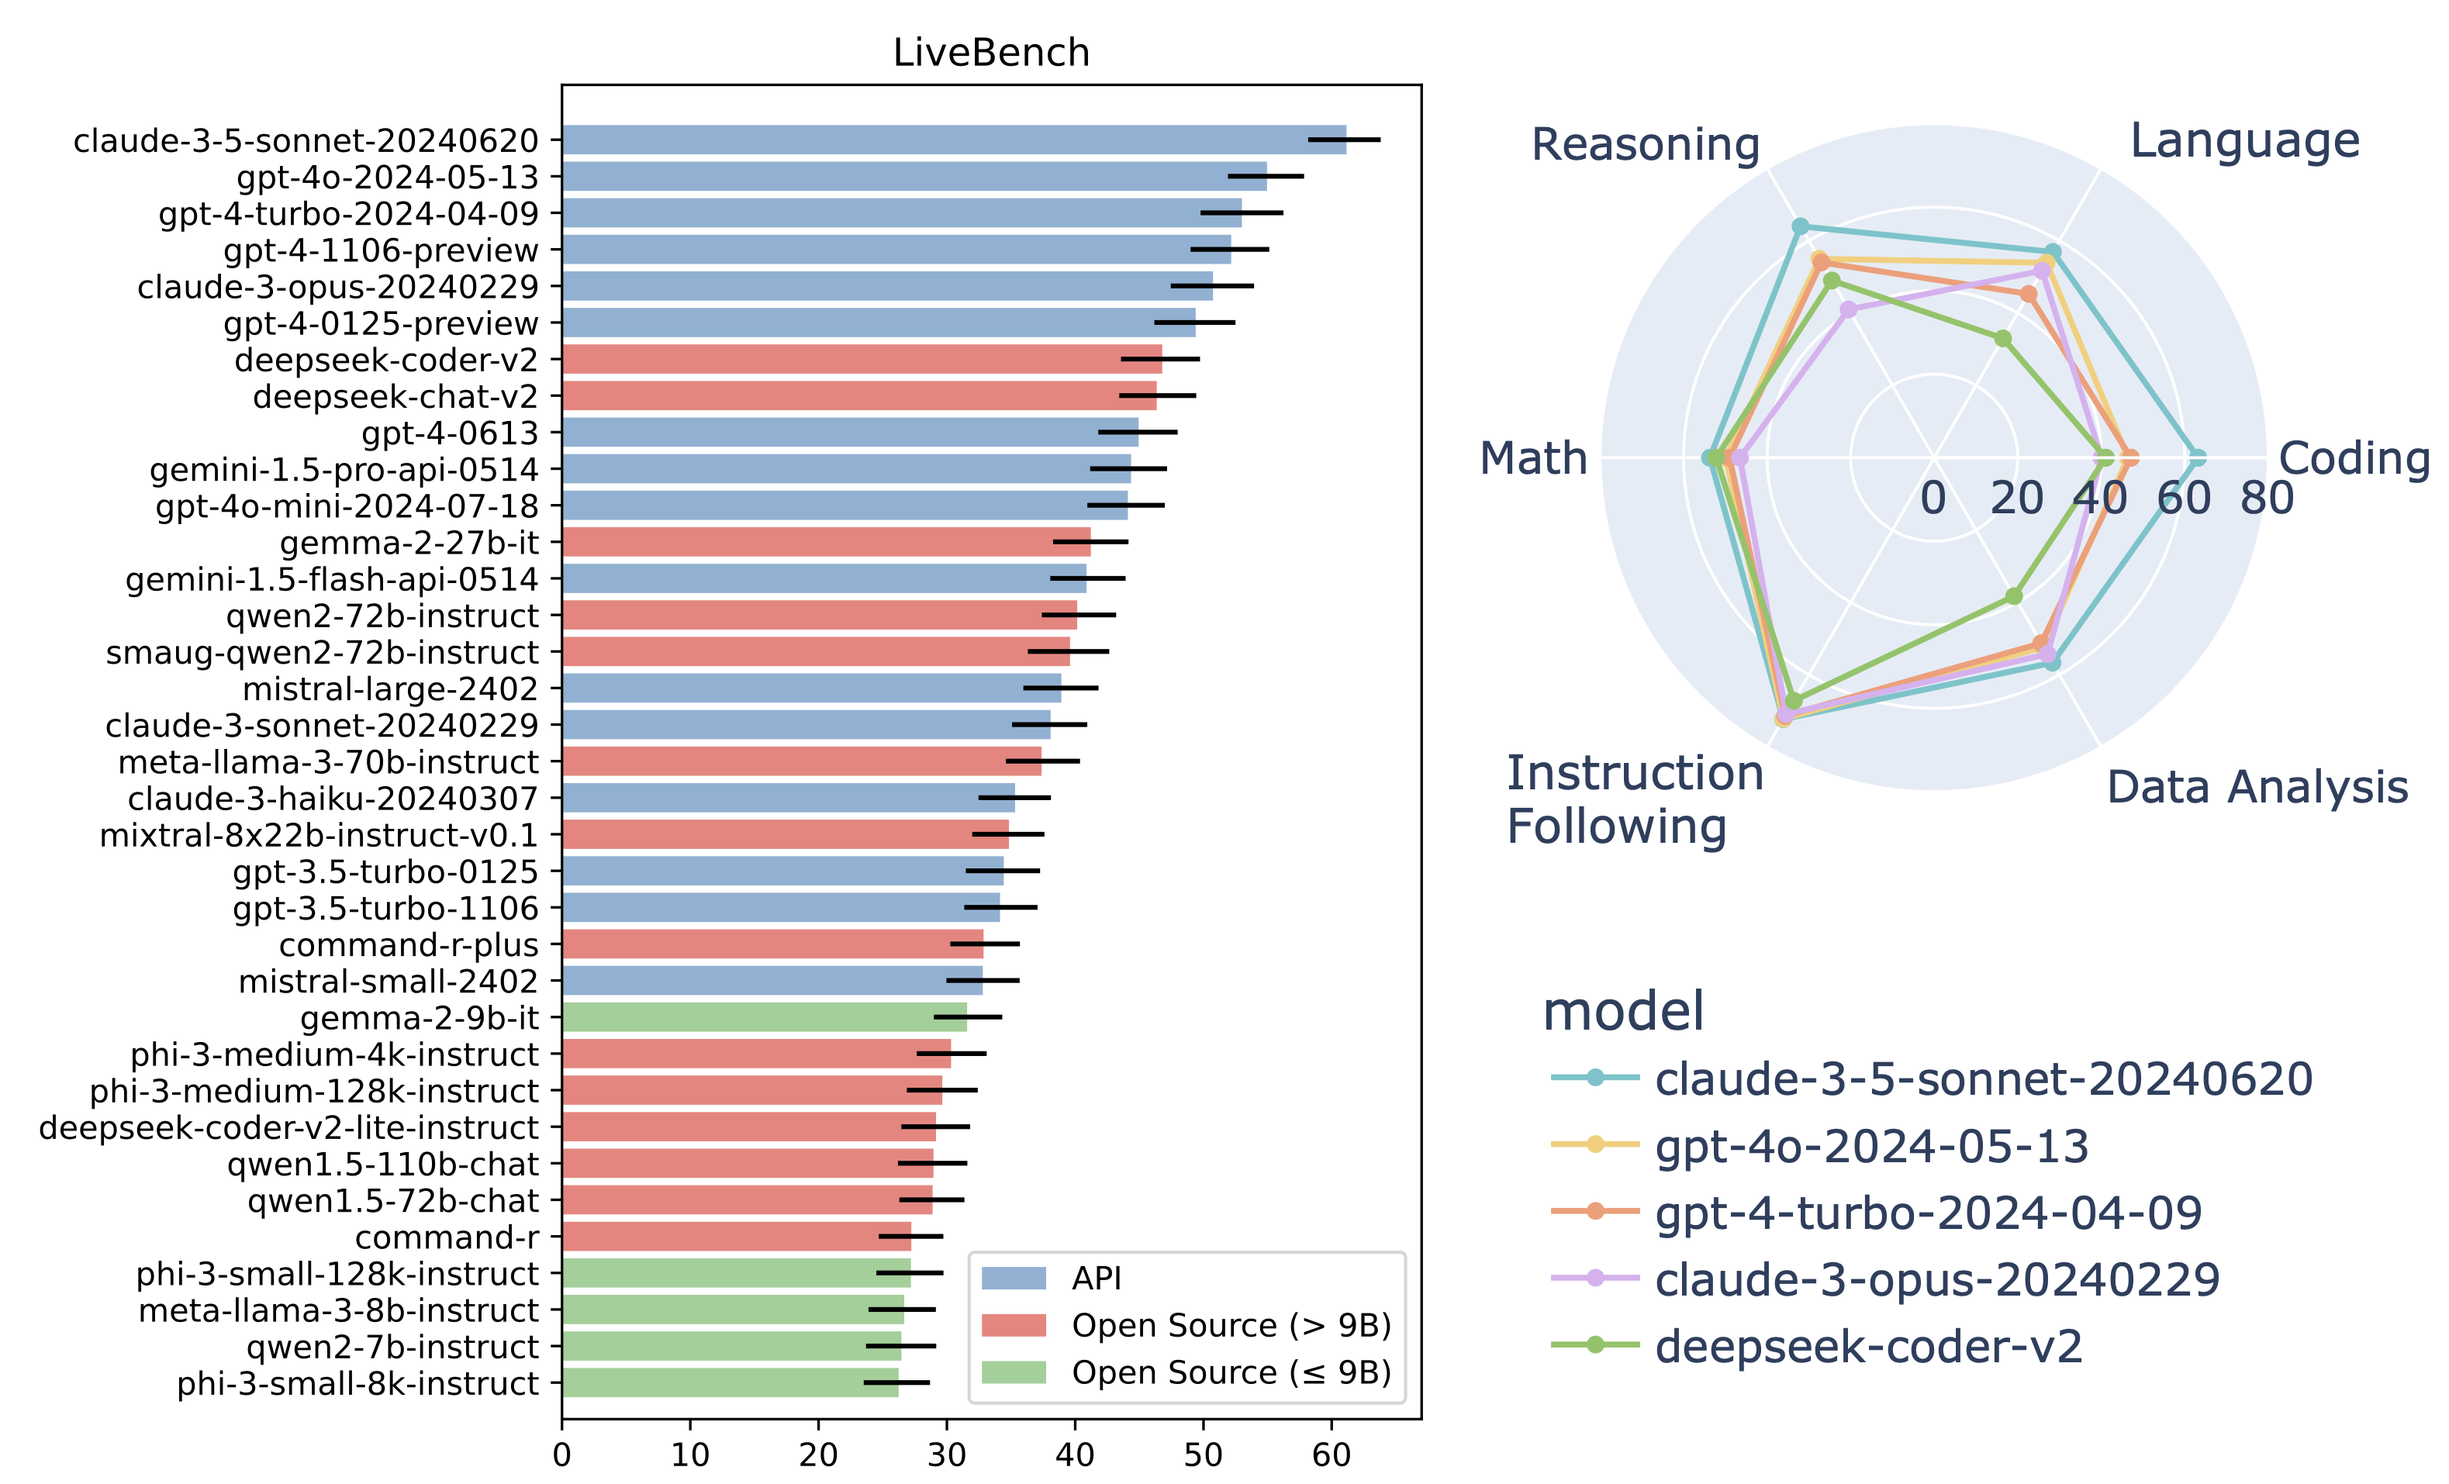
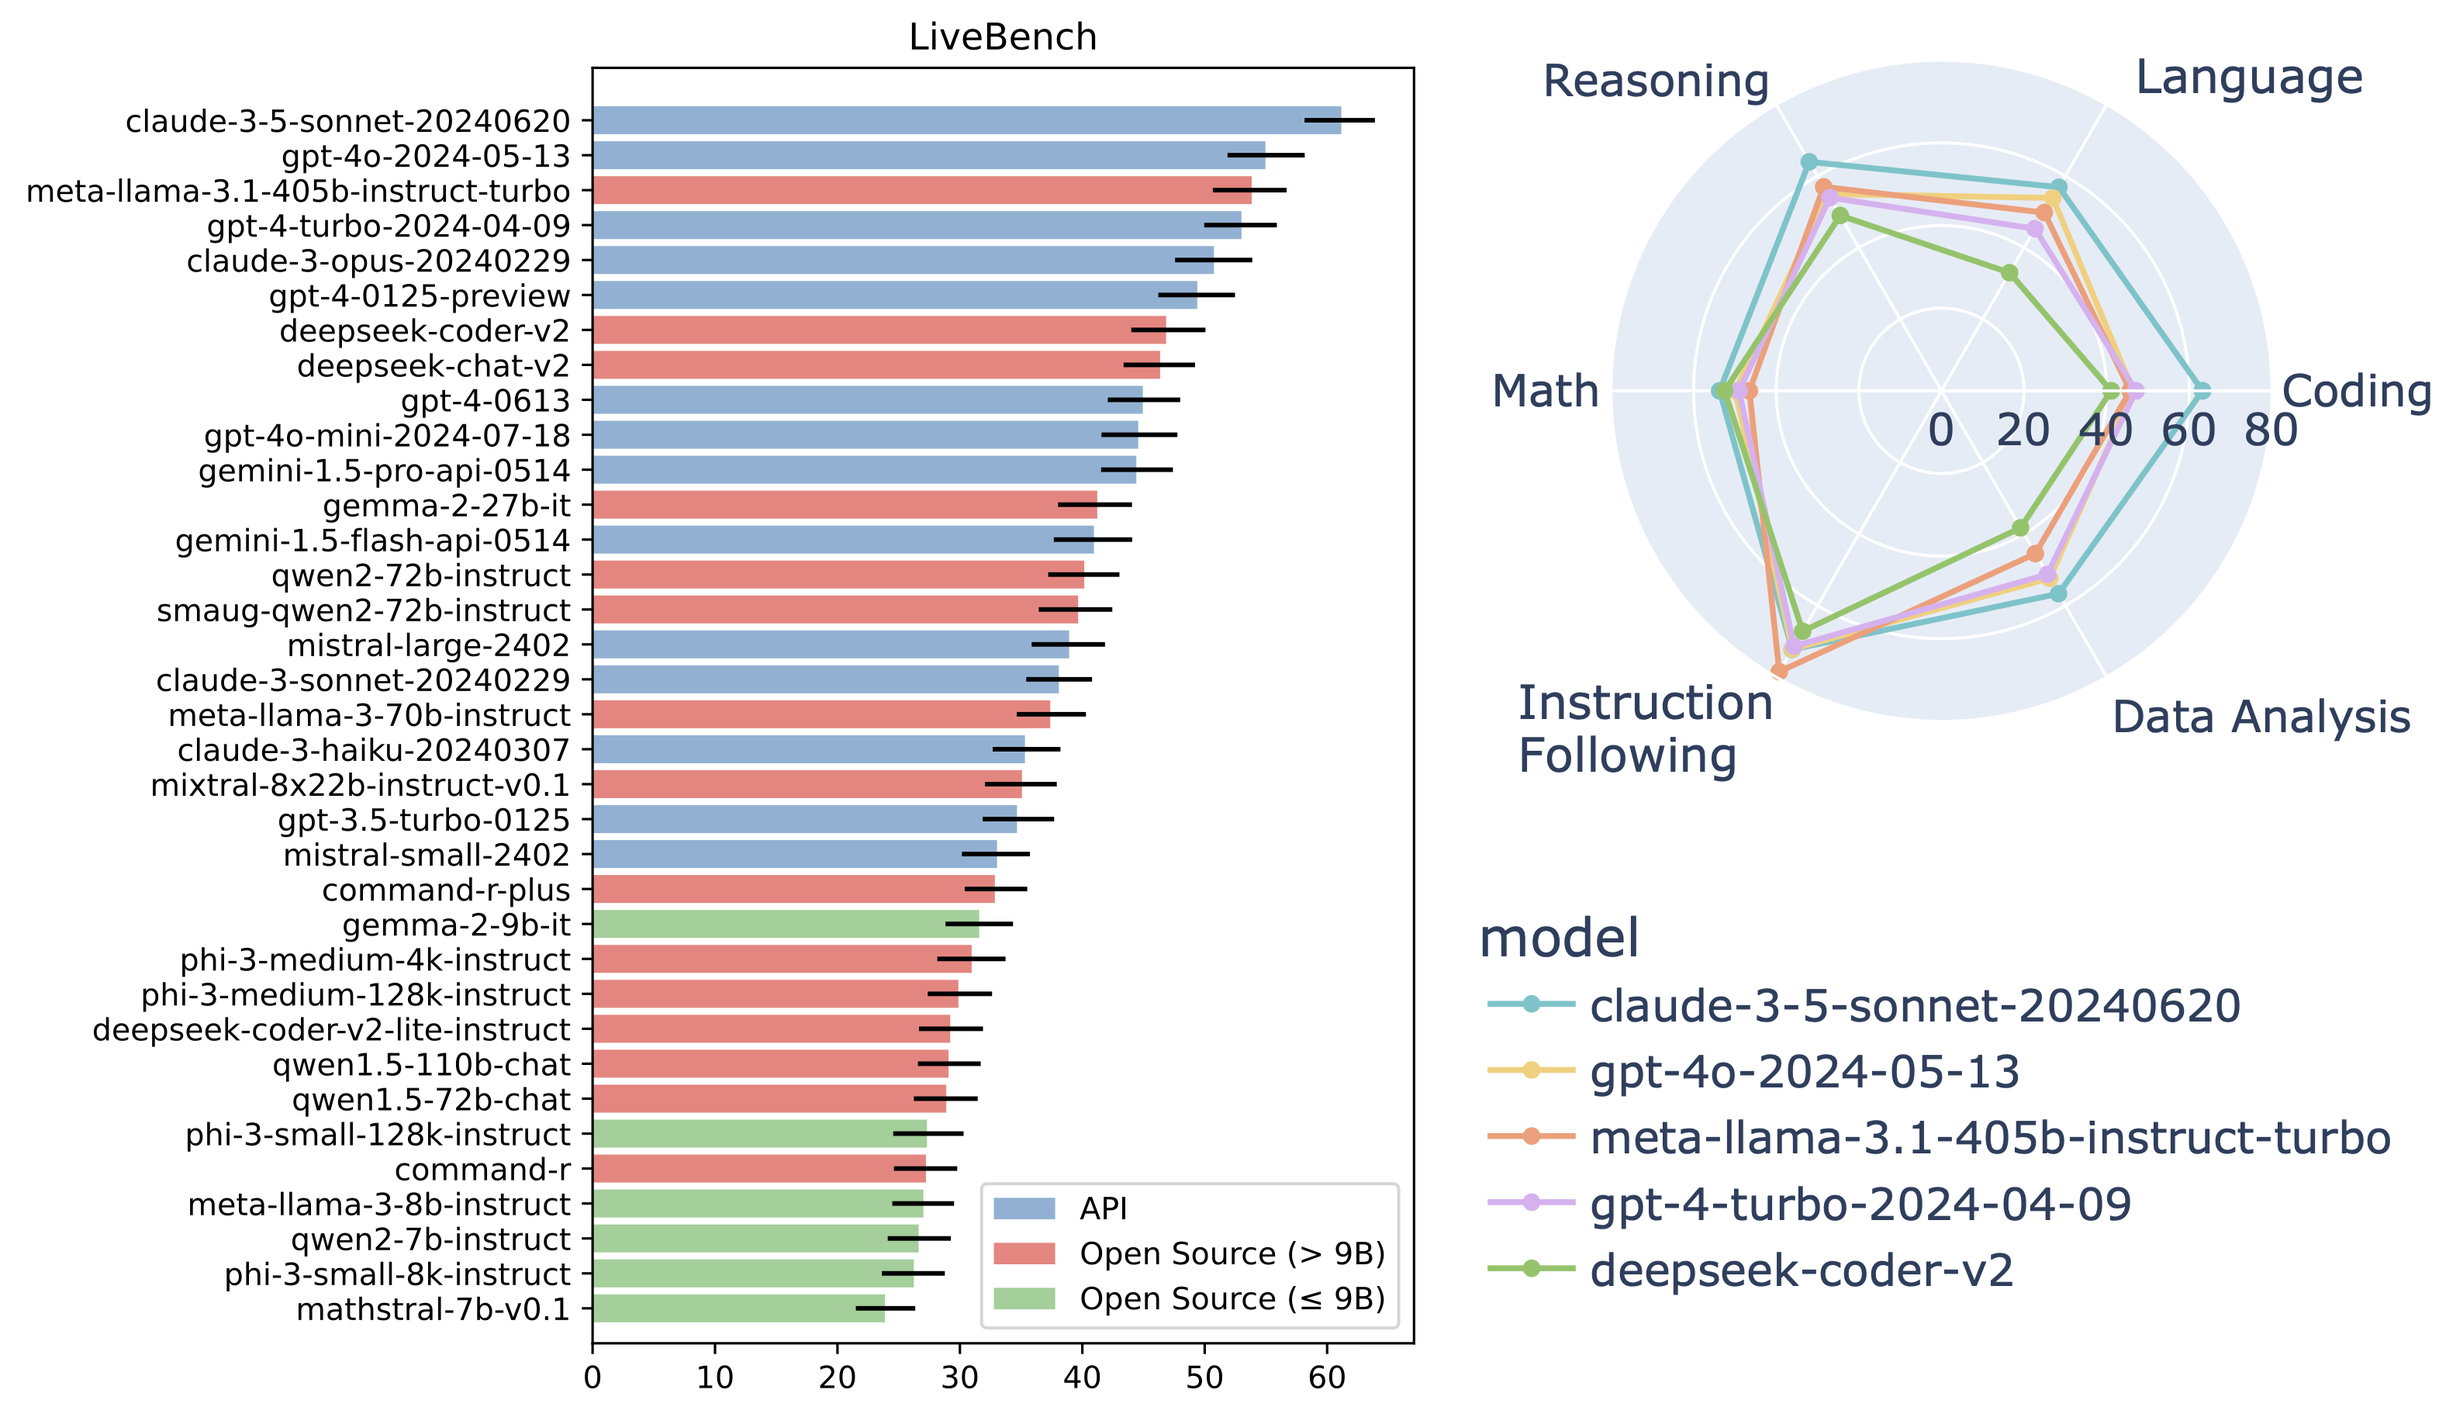
add llama-405b

diff --git a/src/App.js b/src/App.js
@@ -167,7 +167,7 @@ function App() {
                     <div className="column is-four-fifths">
                         <h2 className="title is-3">Leaderboard</h2>
                         <div className="is-size-6 ">
-                            <span className="author-block">Last updated 20 July 2024</span>
+                            <span className="author-block">Last updated 23 July 2024</span>
                         </div>
                         <CSVTable />
                     </div>
